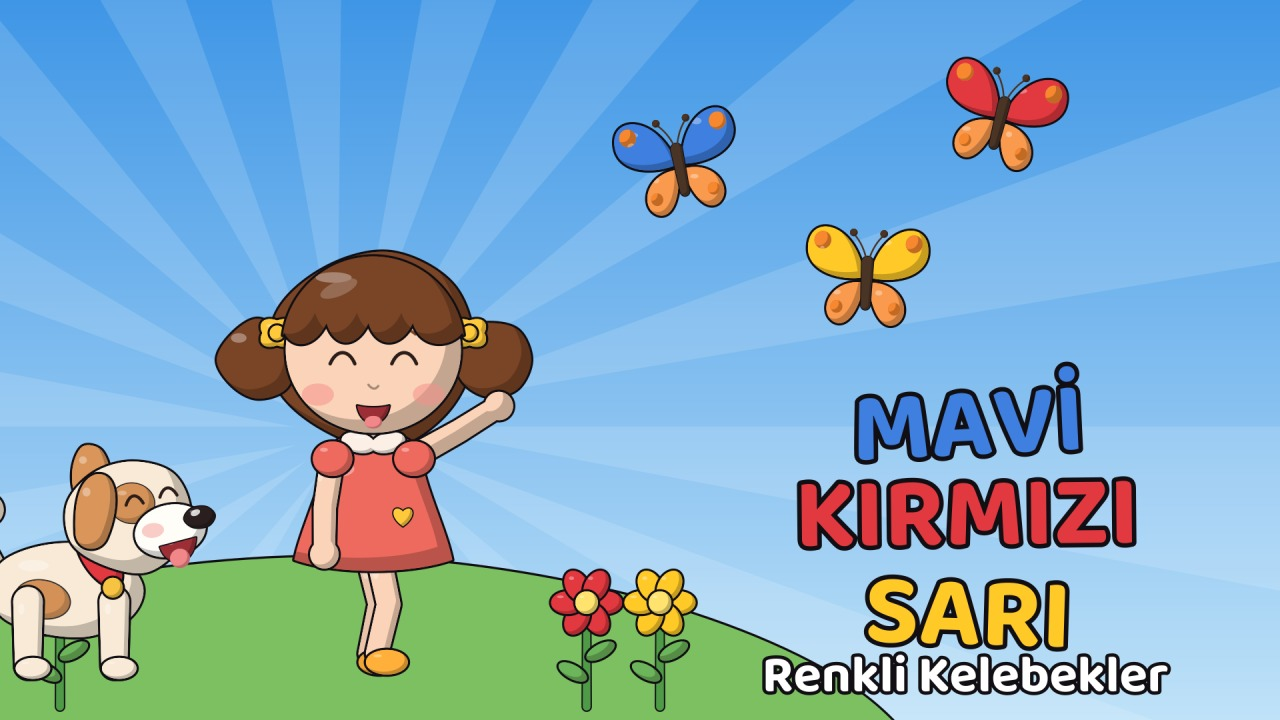
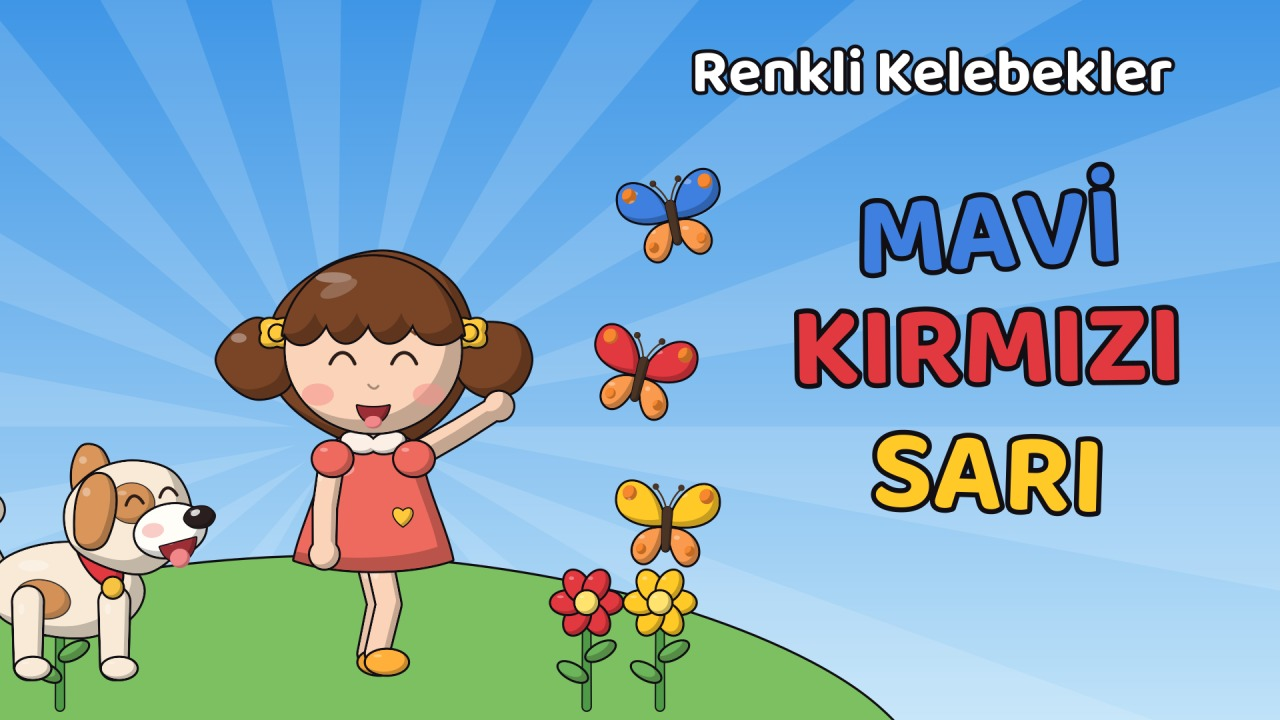
1. bölüm kapağı: yazılar YouTube süre etiketinin altından çekildi
Claude-Session: https://claude.ai/code/session_01UuJXFs2Kbp2qCwWL2nXVT4

diff --git a/studio/kanal_gorselleri.py b/studio/kanal_gorselleri.py
@@ -185,16 +185,16 @@ def kapak_bolum1():
     draw_zipzip(p, -250, 0, 1.0, {"facing": 1, "happy": 1.0, "mouth": 0.7, "look_up": 0.5})
     draw_umay(p, 0, 0, 1.0, {"facing": 1, "arms": umay_arm_pose("point", 0.3), "happy": 0.8, "mouth": 0.7, "eye_dy": -2})
     ctx.restore()
-    for i, (x, y, col, r) in enumerate(((1020, 250, "mavi", -0.2), (1500, 180, "kirmizi", 0.25), (1300, 420, "sari", 0.05))):
-        draw_butterfly(p, x, y, 1.9, 0.35, rot=r, col=P.COL[col])
-    # büyük yazı: renkler
+    # sağ alt köşe (YouTube süre etiketi) boş bırakılır: yazılar sağ üstte ve ortada
+    text(p, "Renkli Kelebekler", 1400, 105, 92, hexrgb("#FFFFFF"), lw=1.6)
+    for i, (x, y, col, r) in enumerate(((1010, 330, "mavi", -0.2), (960, 565, "kirmizi", 0.25), (1000, 790, "sari", 0.05))):
+        draw_butterfly(p, x, y, 1.6, 0.35, rot=r, col=P.COL[col])
     for i, (w, col) in enumerate((("MAVİ", "mavi"), ("KIRMIZI", "kirmizi"), ("SARI", "sari"))):
         ctx.save()
-        ctx.translate(1450, 620 + i * 150)
+        ctx.translate(1480, 330 + i * 190)
         ctx.rotate(-0.05 + 0.04 * i)
-        text(p, w, 0, 0, 150, P.COL[col], lw=2.0)
+        text(p, w, 0, 0, 170, P.COL[col], lw=2.2)
         ctx.restore()
-    text(p, "Renkli Kelebekler", 1450, 1010, 78, hexrgb("#FFFFFF"), lw=1.5)
     path = save(cv, "_kapak.png")
     im = cv2.imread(path)
     out = os.path.join(OUT, "kapak_bolum1_renkli_kelebekler_1280x720.jpg")
